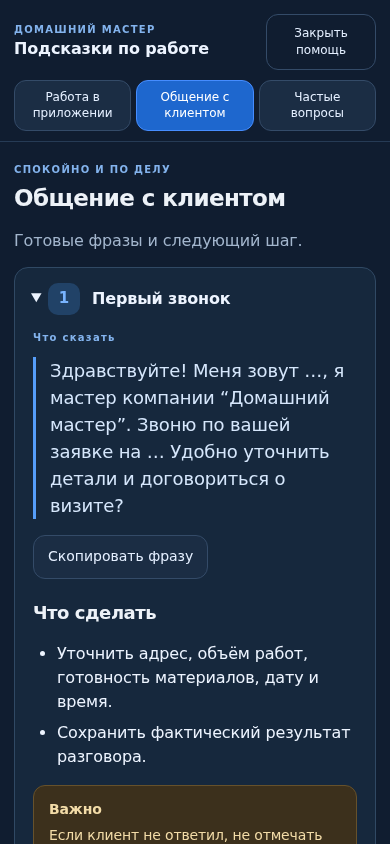
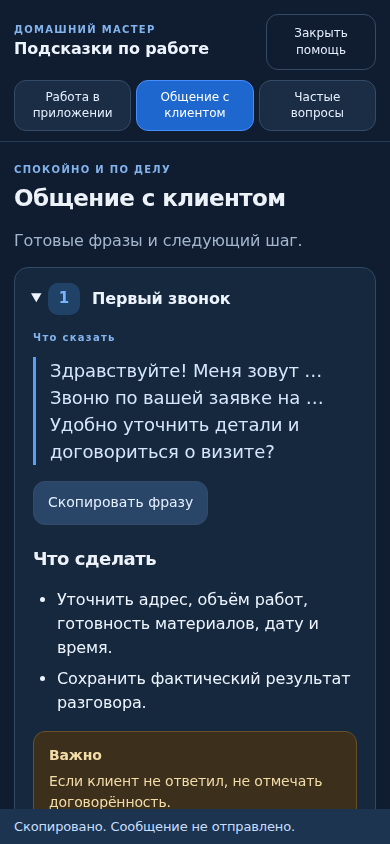
fix: apply three approved master help text corrections
Remove only the final accrual lesson detail, shorten the first-call greeting, and state the owner-confirmed one-year warranty for completed work. Refresh generated build metadata and three review screenshots. Targeted search/copy/navigation checks pass on mobile and desktop.

Changed region(s): [[0.0, 0.4621, 0.9231, 1.0], [0.9538, 0.955, 1.0, 1.0], [0.8615, 0.4313, 0.8923, 0.4621]]

diff --git a/build-version.js b/build-version.js
@@ -1,2 +1,2 @@
 // Generated by npm run build. Do not edit.
[2 lines of base64/hex data omitted]

diff --git a/index.html b/index.html
@@ -1,1 +1,1 @@
-<!doctype html><html lang="ru"><head><meta name="bos-build-id" content="a2aa5da9412cd5a874d1"><meta charset="UTF-8"><meta name="viewport" content="width=device-width,initial-scale=1,viewport-fit=cover"><meta name="referrer" content="no-referrer"><script id="bos-origin-migration">if(location.origin==='https://zuev1ilya11-afk.github.io'&&(location.pathname==='/business-os-vk/'||location.pathname==='/business-os-vk/index.html'))location.replace('https://139.100.237.167/'+location.search+location.hash);</script><meta name="theme-color" content="#0e141c"><meta name="apple-mobile-web-app-capable" content="yes"><meta name="apple-mobile-web-app-status-bar-style" content="black-translucent"><meta name="apple-mobile-web-app-title" content="Business OS"><title>Домашний мастер</title><link rel="manifest" href="manifest.webmanifest?build=a2aa5da9412cd5a874d1"><link rel="icon" href="brand-logo.svg?build=a2aa5da9412cd5a874d1" type="image/svg+xml"><link rel="stylesheet" href="styles.css?build=a2aa5da9412cd5a874d1"><link rel="stylesheet" href="ui-v2.css?build=a2aa5da9412cd5a874d1"><link rel="stylesheet" href="report-review.css?build=a2aa5da9412cd5a874d1"><link rel="stylesheet" href="master-simple.css?build=a2aa5da9412cd5a874d1"><link rel="stylesheet" href="form-mobile-fix.css?build=a2aa5da9412cd5a874d1"><link rel="stylesheet" href="ui-refresh-v1.css?build=a2aa5da9412cd5a874d1"><style>.brandWrap{display:flex;align-items:center;gap:10px}.brandLogo{display:flex;align-items:center;justify-content:center;flex:0 0 auto}.brandLogo img{width:46px;height:46px;display:block;object-fit:contain}.brandText{display:flex;flex-direction:column;justify-content:center;min-width:0}.brandText h1{margin:0;line-height:1.05}.brandSub{margin-top:3px}#authGate{position:fixed;inset:0;z-index:999999;display:flex;align-items:center;justify-content:center;padding:20px;background:#08101b;overflow:auto}.authGateCard{width:min(100%,430px);background:#101b2a;border:1px solid rgba(255,255,255,.1);border-radius:20px;padding:24px;box-sizing:border-box;box-shadow:0 20px 60px rgba(0,0,0,.35)}.authGateCard h1{margin:8px 0 10px;font-size:26px}.authGateCard .wide{width:100%;margin-top:10px}.authLogo{font-size:14px;font-weight:700;letter-spacing:.08em;text-transform:uppercase;opacity:.75}.authError{padding:10px 12px;border-radius:12px;background:rgba(255,80,80,.12);overflow-wrap:anywhere}body:not(.bos-auth-ok){overflow:hidden}</style><link rel="stylesheet" href="dark-business-os.css?build=a2aa5da9412cd5a874d1"><link rel="stylesheet" href="dispatcher-mobile-touch-v101.css?build=a2aa5da9412cd5a874d1"><link rel="stylesheet" href="approved-ui.css?build=a2aa5da9412cd5a874d1"><link rel="stylesheet" href="approved-master-ui.css?build=a2aa5da9412cd5a874d1"><link rel="stylesheet" href="approved-operations-ui.css?build=a2aa5da9412cd5a874d1"></head><body class="bos-approved-ui"><div id="authGate"><div class="authGateCard"><div class="authLogo">Домашний мастер</div><h1>Проверяем вход…</h1><p class="muted">Пожалуйста, подождите.</p></div></div><div id="app"><header><div class="brandWrap"><div class="brandLogo"><img src="brand-logo.svg?build=a2aa5da9412cd5a874d1" alt="Логотип Домашний мастер"></div><div class="brandText"><h1>Домашний мастер</h1><div class="brandSub">Сервисная компания</div><div id="roleBadge" class="roleBadge">Владелец</div></div></div><button class="avatar" id="profileBtn" aria-label="Профиль">БО</button></header><main id="content"><section class="hero"><h2>Домашний мастер</h2><p class="muted">Запуск приложения…</p></section></main><nav><button data-page="home" class="active">Главная</button><button data-page="orders">Заявки</button><button data-page="dispatch">График</button><button data-page="team">Команда</button></nav></div><div id="modalRoot"></div><script defer src="build-version.js?build=a2aa5da9412cd5a874d1"></script><script defer src="startup-shell.bundle.js?build=a2aa5da9412cd5a874d1"></script><script defer src="pwa-register.js?build=a2aa5da9412cd5a874d1"></script></body></html>
+<!doctype html><html lang="ru"><head><meta name="bos-build-id" content="cdef31e8c6112b5f0e5d"><meta charset="UTF-8"><meta name="viewport" content="width=device-width,initial-scale=1,viewport-fit=cover"><meta name="referrer" content="no-referrer"><script id="bos-origin-migration">if(location.origin==='https://zuev1ilya11-afk.github.io'&&(location.pathname==='/business-os-vk/'||location.pathname==='/business-os-vk/index.html'))location.replace('https://139.100.237.167/'+location.search+location.hash);</script><meta name="theme-color" content="#0e141c"><meta name="apple-mobile-web-app-capable" content="yes"><meta name="apple-mobile-web-app-status-bar-style" content="black-translucent"><meta name="apple-mobile-web-app-title" content="Business OS"><title>Домашний мастер</title><link rel="manifest" href="manifest.webmanifest?build=cdef31e8c6112b5f0e5d"><link rel="icon" href="brand-logo.svg?build=cdef31e8c6112b5f0e5d" type="image/svg+xml"><link rel="stylesheet" href="styles.css?build=cdef31e8c6112b5f0e5d"><link rel="stylesheet" href="ui-v2.css?build=cdef31e8c6112b5f0e5d"><link rel="stylesheet" href="report-review.css?build=cdef31e8c6112b5f0e5d"><link rel="stylesheet" href="master-simple.css?build=cdef31e8c6112b5f0e5d"><link rel="stylesheet" href="form-mobile-fix.css?build=cdef31e8c6112b5f0e5d"><link rel="stylesheet" href="ui-refresh-v1.css?build=cdef31e8c6112b5f0e5d"><style>.brandWrap{display:flex;align-items:center;gap:10px}.brandLogo{display:flex;align-items:center;justify-content:center;flex:0 0 auto}.brandLogo img{width:46px;height:46px;display:block;object-fit:contain}.brandText{display:flex;flex-direction:column;justify-content:center;min-width:0}.brandText h1{margin:0;line-height:1.05}.brandSub{margin-top:3px}#authGate{position:fixed;inset:0;z-index:999999;display:flex;align-items:center;justify-content:center;padding:20px;background:#08101b;overflow:auto}.authGateCard{width:min(100%,430px);background:#101b2a;border:1px solid rgba(255,255,255,.1);border-radius:20px;padding:24px;box-sizing:border-box;box-shadow:0 20px 60px rgba(0,0,0,.35)}.authGateCard h1{margin:8px 0 10px;font-size:26px}.authGateCard .wide{width:100%;margin-top:10px}.authLogo{font-size:14px;font-weight:700;letter-spacing:.08em;text-transform:uppercase;opacity:.75}.authError{padding:10px 12px;border-radius:12px;background:rgba(255,80,80,.12);overflow-wrap:anywhere}body:not(.bos-auth-ok){overflow:hidden}</style><link rel="stylesheet" href="dark-business-os.css?build=cdef31e8c6112b5f0e5d"><link rel="stylesheet" href="dispatcher-mobile-touch-v101.css?build=cdef31e8c6112b5f0e5d"><link rel="stylesheet" href="approved-ui.css?build=cdef31e8c6112b5f0e5d"><link rel="stylesheet" href="approved-master-ui.css?build=cdef31e8c6112b5f0e5d"><link rel="stylesheet" href="approved-operations-ui.css?build=cdef31e8c6112b5f0e5d"></head><body class="bos-approved-ui"><div id="authGate"><div class="authGateCard"><div class="authLogo">Домашний мастер</div><h1>Проверяем вход…</h1><p class="muted">Пожалуйста, подождите.</p></div></div><div id="app"><header><div class="brandWrap"><div class="brandLogo"><img src="brand-logo.svg?build=cdef31e8c6112b5f0e5d" alt="Логотип Домашний мастер"></div><div class="brandText"><h1>Домашний мастер</h1><div class="brandSub">Сервисная компания</div><div id="roleBadge" class="roleBadge">Владелец</div></div></div><button class="avatar" id="profileBtn" aria-label="Профиль">БО</button></header><main id="content"><section class="hero"><h2>Домашний мастер</h2><p class="muted">Запуск приложения…</p></section></main><nav><button data-page="home" class="active">Главная</button><button data-page="orders">Заявки</button><button data-page="dispatch">График</button><button data-page="team">Команда</button></nav></div><div id="modalRoot"></div><script defer src="build-version.js?build=cdef31e8c6112b5f0e5d"></script><script defer src="startup-shell.bundle.js?build=cdef31e8c6112b5f0e5d"></script><script defer src="pwa-register.js?build=cdef31e8c6112b5f0e5d"></script></body></html>

diff --git a/master-help-data.js b/master-help-data.js
@@ -47,7 +47,7 @@ step('Если ответ на сохранение не получен','Сох
 {id:'money',title:'Проверить начисления',steps:[
 step('Откройте профиль → «Мои начисления»','В профиле видны показатели за сегодня, неделю и месяц.','profile-money'),
 step('Нажмите «Подробнее →»','Выберите доступный период и посмотрите состав начислений.','money',{warning:'Стоимость заказа не равна заработку мастера. Начислено не означает выплачено.'}),
-step('Проверьте спорную сумму по заявке','Сообщите руководителю номер заявки и расхождение.','money',{detail:'Утверждённое правило: зарплата мастера — без дополнительного удержания 6%. Сроки выплат и проценты уточняйте по правилам компании.'})]},
+step('Проверьте спорную сумму по заявке','Сообщите руководителю номер заявки и расхождение.','money')]},
 {id:'day',title:'Проверить итоги дня',steps:[
 step('Разверните «Выполнено … · Начислено …»','На главной раскройте блок итогов и проверьте результат за сегодня.','day'),
 step('Проверьте незавершённые действия','Посмотрите, где ещё нужен звонок, договорённость или отчёт.','day',{detail:'Отправленные отчёты могут ещё ожидать проверки. Это не означает, что их надо отправлять заново.'}),
@@ -64,7 +64,7 @@ Object.assign(window.BOS_MASTER_HELP_DATA,{
   "talk": [
     {
       "title": "Первый звонок",
-      "say": "Здравствуйте! Меня зовут …, я мастер компании “Домашний мастер”. Звоню по вашей заявке на … Удобно уточнить детали и договориться о визите?",
+      "say": "Здравствуйте! Меня зовут … Звоню по вашей заявке на … Удобно уточнить детали и договориться о визите?",
       "actions": [
         "Уточнить адрес, объём работ, готовность материалов, дату и время.",
         "Сохранить фактический результат разговора."
@@ -170,7 +170,7 @@ Object.assign(window.BOS_MASTER_HELP_DATA,{
     },
     {
       "question": "Какая гарантия?",
-      "answer": "Посмотрю условия гарантии по вашей заявке и уточню срок и порядок обращения у руководителя",
+      "answer": "Гарантия на выполненные работы — 1 год",
       "category": "problem"
     },
     {

diff --git a/tests/master-help.spec.js b/tests/master-help.spec.js
@@ -43,7 +43,7 @@ test('tips entry exposes lessons, FAQ search, communication, problems and origin
  await help(page).getByRole('button',{name:'Общение с клиентом',exact:true}).click();await expect(help(page).locator('[data-talk]')).toHaveCount(6);
  await help(page).locator('[data-talk]').first().click();await expect(help(page)).toContainText('Что сказать');
  await help(page).getByRole('button',{name:'Частые вопросы',exact:true}).click();await expect(help(page).locator('details[data-faq]')).toHaveCount(12);
- await help(page).getByLabel('Поиск по вопросам и ответам').fill('гарантии');await expect(help(page).locator('details[data-faq]')).toHaveCount(1);
+ await help(page).getByLabel('Поиск по вопросам и ответам').fill('1 год');await expect(help(page).locator('details[data-faq]')).toHaveCount(1);
  await help(page).getByLabel('Поиск по вопросам и ответам').fill('zzz');await expect(help(page)).toContainText('Ничего не найдено');
  await help(page).getByRole('button',{name:'Очистить поиск',exact:true}).click();await expect(help(page).locator('details[data-faq]')).toHaveCount(12);
  await help(page).getByRole('button',{name:'Возникла проблема',exact:true}).click();await expect(help(page).locator('[data-problem]')).toHaveCount(5);
@@ -73,7 +73,7 @@ test('browser Back dismisses help without discarding the underlying form',async(
 test('copy reports success and failure honestly; search matches answers and categories',async({page})=>{
  await setup(page);await page.evaluate(()=>{Object.defineProperty(navigator,'clipboard',{configurable:true,value:{writeText:async text=>{window.__copied=text}}});openMasterHelp('talk')});
  await help(page).locator('[data-talk] summary').first().click();await help(page).getByRole('button',{name:'Скопировать фразу',exact:true}).first().click();
- await expect(help(page).locator('.bhStatus')).toContainText('Скопировано');expect(await page.evaluate(()=>__copied)).toContain('Домашний мастер');
+ await expect(help(page).locator('.bhStatus')).toContainText('Скопировано');expect(await page.evaluate(()=>__copied)).toBe('Здравствуйте! Меня зовут … Звоню по вашей заявке на … Удобно уточнить детали и договориться о визите?');
  await page.evaluate(()=>Object.defineProperty(navigator,'clipboard',{configurable:true,value:{writeText:async()=>{throw Error('denied')}}}));
  await help(page).getByRole('button',{name:'Скопировать фразу',exact:true}).first().click();await expect(help(page).locator('.bhStatus')).toContainText('Не удалось');
  await help(page).getByRole('button',{name:'Частые вопросы',exact:true}).click();await help(page).getByRole('button',{name:'Оплата',exact:true}).click();await expect(help(page).locator('[data-faq]')).toHaveCount(2);

diff --git a/sw.js b/sw.js
@@ -1,4 +1,4 @@
-const BUILD_ID='a2aa5da9412cd5a874d1';
+const BUILD_ID='cdef31e8c6112b5f0e5d';
 importScripts('./build-version.js?build='+BUILD_ID);
 if(self.BOS_BUILD.id!==BUILD_ID)throw new Error('Mixed deployment: build manifest mismatch');
 const PREFIX='business-os-build-';

diff --git a/docs/master-help/README.md b/docs/master-help/README.md
@@ -43,3 +43,11 @@ WebKit в текущей среде отсутствует. Реальные iPh
 Независимое ревью не выявило замечаний, требующих исправления. Дополнительно подтверждены Back на первом экране и поверх договорённости, а также прокрутка и нижние кнопки при 320 × 520 и тексте 20px.
 
 Merge в main и обновление российского production-сервера не выполняются в этой задаче.
+
+## Три согласованные правки текста — 14 октября
+
+В шаге 3 урока о начислениях удалён только блок «Подробнее». Приветствие первого звонка и ответ о гарантии заменены точным текстом владельца; копирование использует те же данные.
+
+Проверено на 390 × 844 и 1440 × 1000: отсутствие пустого блока, сохранность остальных «Подробнее», навигация, вход из памяток и заявки, точное копирование обеих фраз, поиск по «1 год», отсутствие горизонтального переполнения. Два сценария этих проверок и два существующих сценария поиска/копирования прошли; проверка содержимого и build:check прошли. Отдельное сравнение подтвердило неизменность всех данных вне трёх согласованных полей.
+
+Скриншоты: `help-money-corrected.png`, обновлённый `help-communication.png`, `help-warranty-corrected.png`.
